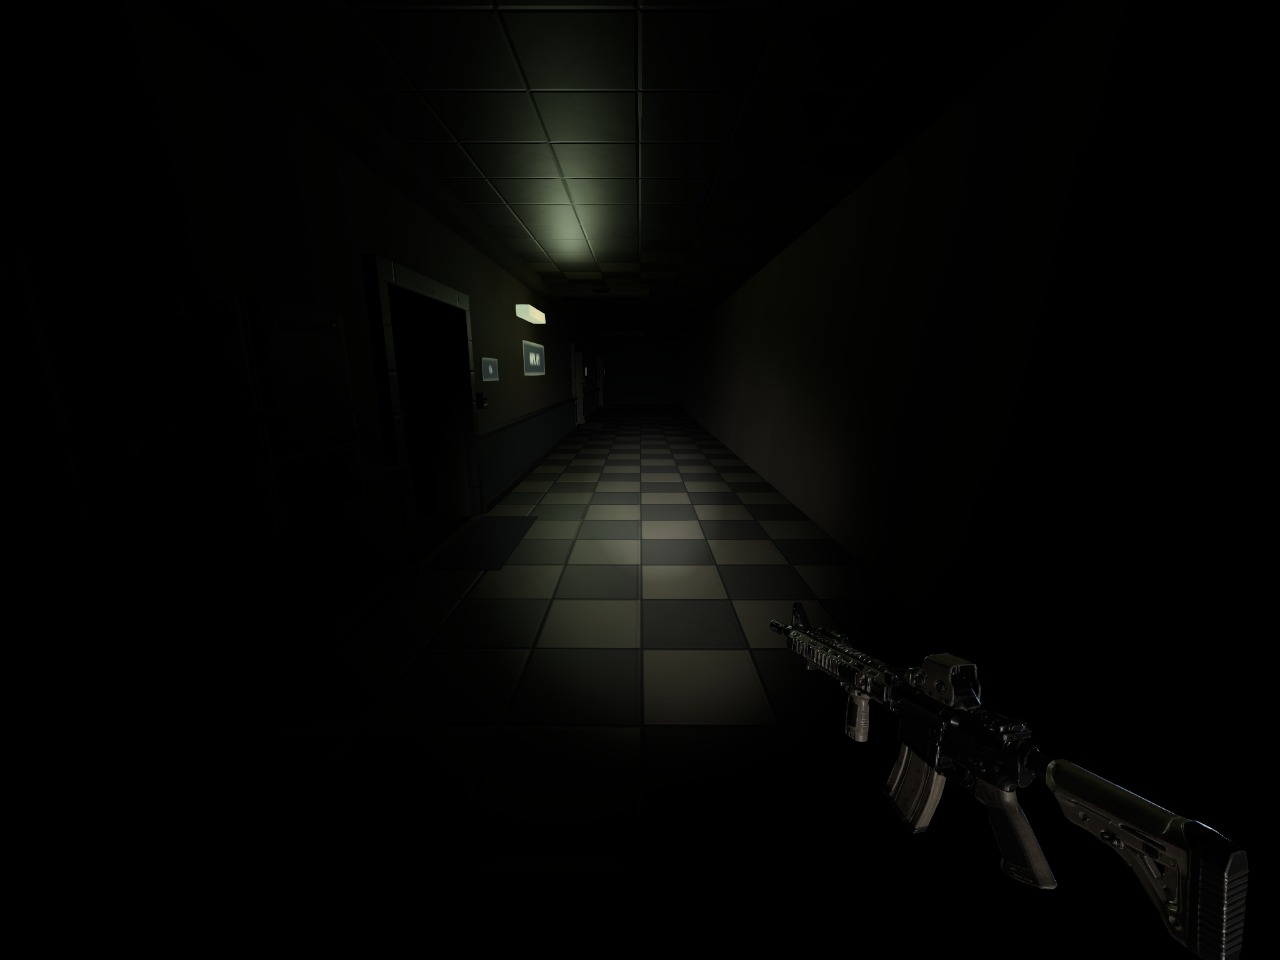
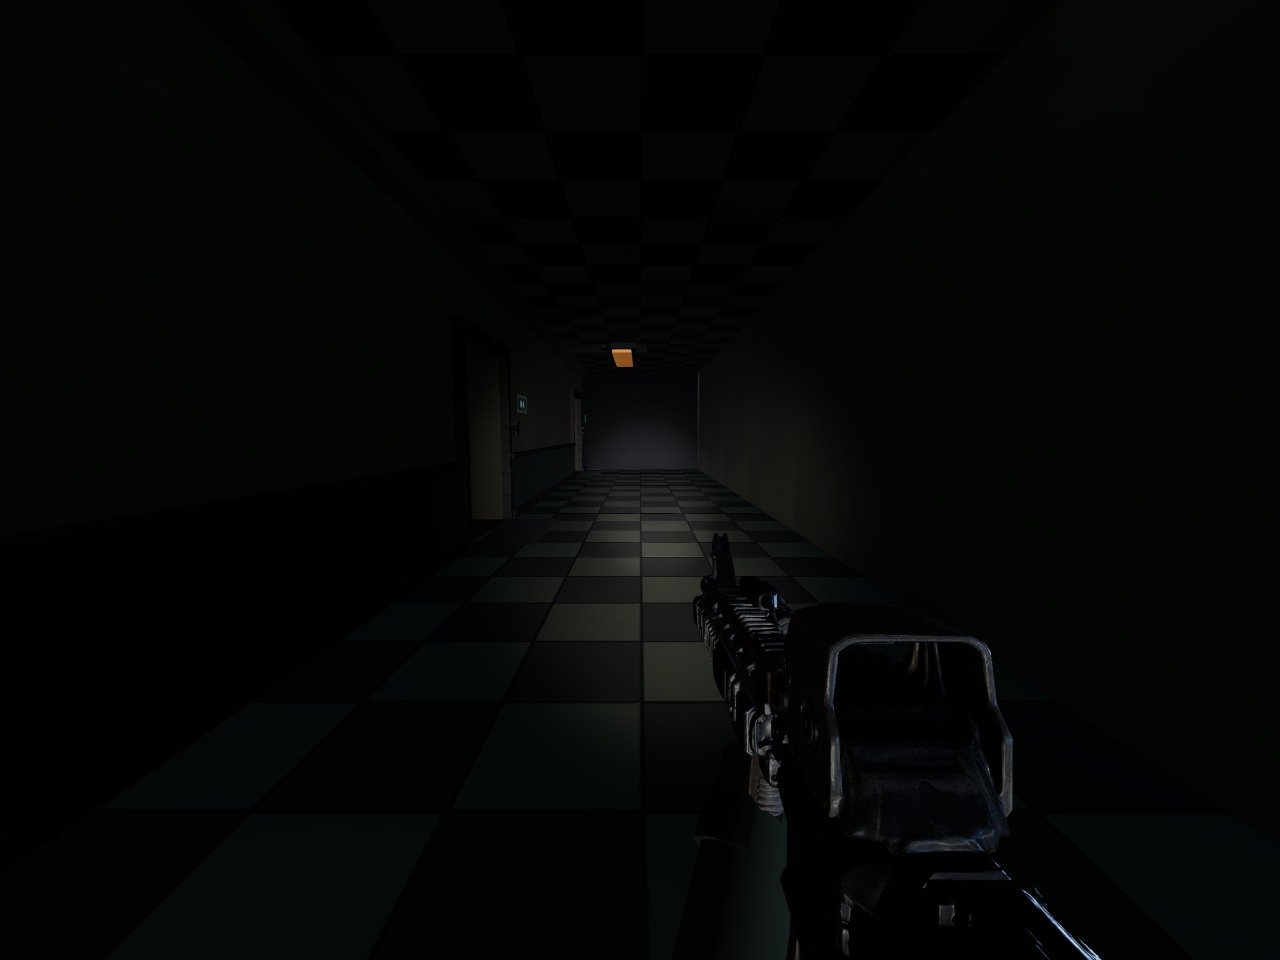
Le batiment n'est plus noir, il est sombre
Hors des rares sources, quatre-vingt-treize pour cent de l'image tombait sous
un niveau sur deux cent cinquante-cinq, c'est-a-dire du noir pur. Un militaire
sans amplification ne distinguait donc plus rien : ni le mur droit, ni les
portes, ni le plafond, ni la profondeur du couloir. Une mort venue du plafond y
paraissait injuste plutot qu'effrayante, ce qui est le contraire de ce qu'on
cherche.

La regle est maintenant une echelle : sans lampe on distingue les volumes, avec
la lampe les details, et le noir total reste un endroit, pas un etat.

Le plancher vient surtout du ciel et du sol, et non d'une ambiante plate : une
lumiere d'hemisphere eclaire selon l'orientation de la surface, si bien qu'un
plafond, un mur et un plancher ne rendent pas le meme niveau. C'est cette
difference, et non la clarte, qui fait lire l'architecture.

Trois tubes par couloir, dont un seul eclaire encore, et il change de place
d'un etage a l'autre : aucun etage n'a la meme zone sure ni le meme angle mort.
Les deux autres restent en place, eteints. Chaque source porte desormais sa
panne : une batterie a bout s'eteint par a-coups apres de longues minutes
franches, un starter fatigue bat vite et se rallume mal, et la plupart ne font
rien. Tout le batiment clignotait au meme rythme, ce qui se lisait comme un
effet et non comme une panne.

La cage d'escalier recoit la nuit par ses baies. Elle etait noire, donc elle ne
s'annoncait pas : on y entrait et on tombait dans le vide central. La lueur
[…]

diff --git a/src/game/unholy/residential.ts b/src/game/unholy/residential.ts
@@ -6,7 +6,14 @@ import type { SurfaceKind } from '../../renderer/materials/Procedural';
 /** Residential details share the same collision builder as the architecture. */
 export class Residential {
   readonly signs = new THREE.Group();
-  readonly lamps: { light: THREE.PointLight; phase: number }[] = [];
+  /**
+   * Sources fixes du decor. Chacune porte son intensite de reference et sa
+   * facon de faiblir : une lampe de secours sur batterie s'eteint par a-coups
+   * quand la charge tombe, un tube qui a mal vieilli bat vite, et la plupart
+   * ne font rien. Sans cette distinction, tout le batiment clignotait au meme
+   * rythme, ce qui se lit comme un effet et non comme une panne.
+   */
+  readonly lamps: { light: THREE.PointLight; phase: number; base: number; fault: 'battery' | 'starter' | 'none' }[] = [];
   constructor(private b: BlockBuilder, private visual: boolean) {}
 
   box(a: Vec3, c: Vec3, kind: SurfaceKind = 'wood', tint = '#514032', solid = true): void {
@@ -60,14 +67,15 @@ export class Residential {
       this.box([x - 5, -8, z + 151], [x + 5, 86, z + 160], 'plaster', '#69604f', false);
       this.box([x - 23, 29, z + 153], [x + 23, 43, z + 157], 'metal', '#393b36', false);
     }
-    this.sign(`NIV. 0${floor + 1}`, -70, 87, z + 91, 80, 26);
+    this.sign(floor === 0 ? 'RDC' : `NIV. 0${floor}`, -70, 87, z + 91, 80, 26);
     // Battery-powered wall light: one small pool per floor, with long dark intervals.
     this.b.block([-101, 83, z + 122], [-39, 93, z + 130], { kind: 'glow', emissive: '#829b77', solid: false, shadow: false });
     if (this.visual) {
       const light = new THREE.PointLight('#afbea0', 90, 400, 1);
       light.position.set(-70, 55, z + 115);
-      this.signs.add(light); this.lamps.push({ light, phase: floor * 2.3 });
+      this.signs.add(light); this.lamps.push({ light, phase: floor * 2.3, base: 90, fault: 'battery' });
     }
+    this.neons(floor, z);
     // Ground-floor mailboxes; upper floors retain uncluttered escape routes.
     if (floor === 0) {
       for (let row = 0; row < 2; row++) for (let col = 0; col < 4; col++) {
@@ -76,6 +84,66 @@ export class Residential {
         this.box([x + 5, 73, z + 64 + row * 25], [x + 21, 75, z + 66 + row * 25], 'wood', '#141611', false);
       }
     }
+  }
+
+  /**
+   * Tubes du plafond : un sur trois eclaire encore.
+   *
+   * Le tube vivant change de place d'un etage a l'autre, si bien qu'aucun
+   * etage n'a la meme zone sure ni le meme angle mort, et qu'on ne peut pas
+   * apprendre un seul couloir pour les connaitre tous. Les deux autres
+   * restent en place, eteints : un plafond vide n'aurait pas dit qu'il y avait
+   * eu de la lumiere ici.
+   */
+  neons(floor: number, z: number): void {
+    const tubes = [-540, -40, 520];
+    const alive = tubes[floor % tubes.length];
+    for (const x of tubes) {
+      const on = x === alive;
+      // Boitier, puis le tube lui-meme, en retrait dessous.
+      this.box([x - 62, 4, z + 146], [x + 62, 34, z + 152], 'metal', '#3f423b', false);
+      this.b.block([x - 54, 9, z + 143], [x + 54, 29, z + 146.5], {
+        kind: 'glow',
+        emissive: on ? '#77887c' : '#1c1f1b',
+        solid: false,
+        shadow: false,
+      });
+      if (!on || !this.visual) continue;
+      const light = new THREE.PointLight('#cfe2d6', 62, 380, 1.15);
+      light.position.set(x, 20, z + 132);
+      this.signs.add(light);
+      // Un tube sur deux a un starter fatigue : celui du dernier etage bat.
+      this.lamps.push({
+        light,
+        phase: floor * 1.7,
+        base: 62,
+        fault: floor % 2 === 1 ? 'starter' : 'none',
+      });
+    }
+  }
+
+  /**
+   * Ce que la nuit du dehors laisse entrer par les baies de la cage.
+   *
+   * La cage d'escalier est le seul endroit ou les deux camps se voient sur
+   * toute la hauteur, et c'est aussi un vide ou l'on tombe. Noire, elle ne
+   * s'annonce pas : on y entre et on chute. Cette lueur froide ne montre rien
+   * de plus qu'elle-meme, les nez de marches et le bord du vide, ce qui suffit
+   * a comprendre qu'il y a un trou avant d'y etre.
+   *
+   * Elle ne clignote pas : ce n'est pas une lampe, c'est le ciel.
+   */
+  stairWindows(z: number): void {
+    if (!this.visual) return;
+    /*
+     * Mille huit cents candelas pour une lueur : les unites du moteur sont
+     * physiques, et une lampe de couloir en vaut deja quatre-vingt-dix a un
+     * metre. Ici la source est le ciel derriere une baie, a plusieurs metres
+     * des marches qu'elle doit dessiner, et la decroissance mange le reste.
+     */
+    const light = new THREE.PointLight('#5a7ea8', 1800, 900, 1.25);
+    light.position.set(-560, -640, z + 96);
+    this.signs.add(light);
   }
 
   apartment(x0: number, x1: number, z: number, floor: number): void {

diff --git a/src/game/unholy/building.ts b/src/game/unholy/building.ts
@@ -31,6 +31,18 @@ import type { Level, SpawnPoint } from '../level';
  * Les demons utilisent les murs, les plafonds et le vide de la cage.
  */
 
+/**
+ * Plancher de lumiere : la part plate, et celle du ciel et du sol.
+ *
+ * Reglees en regardant l'image, et non en lisant des niveaux : les releves
+ * ponctuels tombaient sur des coins sombres et annoncaient une image deux fois
+ * plus claire qu'elle ne l'etait. Au double de ces valeurs, le couloir
+ * ressemble a un bureau mal eclaire ; a la moitie, seul le rond de la lampe de
+ * secours existe et le reste redevient un ecran eteint.
+ */
+const AMBIENT_FLOOR = 20;
+const SKY_FLOOR = 26;
+
 /** Hauteur d'un etage, du sol au sol suivant. */
 const PITCH = 192;
 /** Epaisseur des dalles et des cloisons. */
@@ -355,6 +367,7 @@ export function buildBuilding(visual = true): Level {
   for (let floor = 0; floor < FLOORS; floor++) {
     const z = b.floorZ(floor);
     b.windowWall('x', X0 - SLAB, STAIR_X1, Y0 - SLAB, Y0, z, ROOM, [-660, -460], 96);
+    decor.stairWindows(z);
     // Spandrel between the stairwell windows; no floor across the vertical void.
     b.wall(X0 - SLAB, STAIR_X1, Y0 - SLAB, Y0, z + ROOM, SLAB, CONCRETE);
 
@@ -424,16 +437,25 @@ export function buildBuilding(visual = true): Level {
   });
 
   /*
-   * Lumiere. Le courant est coupe : pas de soleil, pas de plafonnier, une
-   * ambiante juste assez haute pour que le noir ne soit pas un ecran eteint.
-   * Tout le reste vient des lampes des militaires et des projecteurs dehors.
+   * Lumiere.
+   *
+   * L'alimentation est defaillante, pas coupee. La difference tient en une
+   * phrase : sans lampe on doit distinguer les volumes, avec la lampe les
+   * details, et jamais l'inverse. Une ambiante a zero donnait un couloir ou
+   * un mur, une porte et un plafond se valaient tous les trois, et une mort
+   * venue du plafond y paraissait injuste plutot qu'effrayante.
+   *
+   * Le plancher vient donc surtout du ciel et du sol, et non d'une ambiante
+   * plate : une lumiere d'hemisphere eclaire selon l'orientation de la
+   * surface, si bien qu'un plafond, un mur et un plancher ne rendent pas le
+   * meme niveau. C'est cette difference, et non la clarte, qui fait lire
+   * l'architecture. La part plate reste tres basse, juste de quoi qu'une
+   * surface verticale ne tombe pas a zero.
    */
   const root = builder.build();
   root.add(decor.signs);
-  root.add(new THREE.AmbientLight(new THREE.Color('#0a0d12'), Math.PI * 0.35));
-  root.add(
-    new THREE.HemisphereLight(new THREE.Color('#12202e'), new THREE.Color('#05060a'), Math.PI * 0.18),
-  );
+  root.add(new THREE.AmbientLight(new THREE.Color('#16242f'), AMBIENT_FLOOR));
+  root.add(new THREE.HemisphereLight(new THREE.Color('#16242f'), new THREE.Color('#15110c'), SKY_FLOOR));
 
   /*
    * Projecteurs des helicopteres. Deux faisceaux tournent autour du batiment,
@@ -452,9 +474,17 @@ export function buildBuilding(visual = true): Level {
 
   const animated: Level['animated'] = [
     (time) => {
-      for (const { light, phase } of decor.lamps) {
-        const cycle = (time + phase) % 13;
-        light.intensity = cycle > 10 ? (Math.sin(time * 37 + phase) > 0.15 ? 65 : 3) : 90;
+      for (const { light, phase, base, fault } of decor.lamps) {
+        if (fault === 'none') continue;
+        if (fault === 'battery') {
+          // Batterie a bout : de longues minutes franches, puis des a-coups.
+          const cycle = (time + phase) % 13;
+          light.intensity = cycle > 10 ? (Math.sin(time * 37 + phase) > 0.15 ? base * 0.72 : base * 0.03) : base;
+          continue;
+        }
+        // Starter fatigue : il bat vite et se rallume mal, sans jamais mourir.
+        const beat = Math.sin(time * 21 + phase) * Math.sin(time * 6.3 + phase * 2);
+        light.intensity = beat > -0.25 ? base : base * (0.08 + Math.random() * 0.2);
       }
       for (const entry of searchlights) {
         const angle = entry.phase + time * entry.speed;
